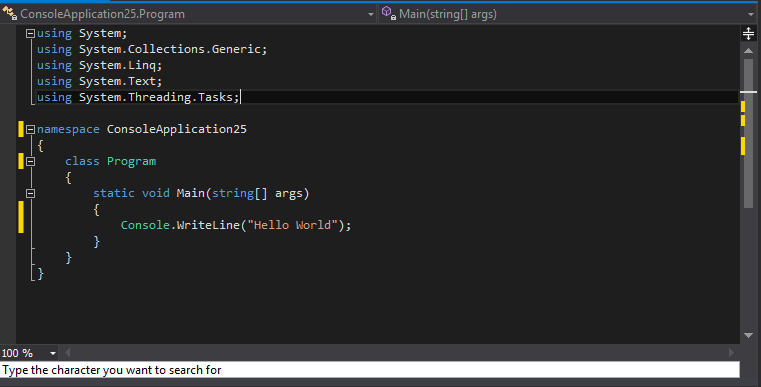
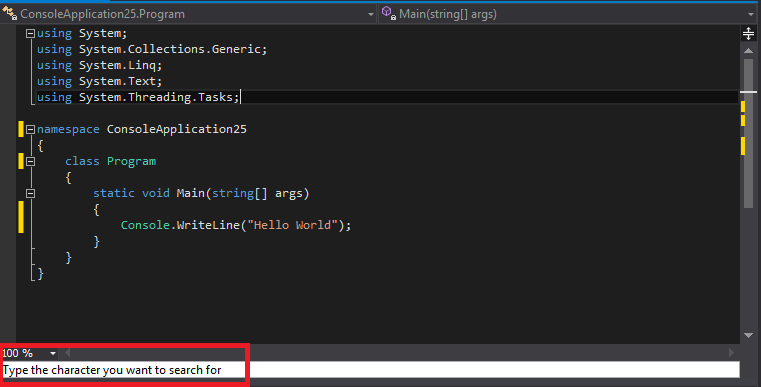
Added easy motion post

Changed region(s): [[0.0, 0.8682, 0.3325, 1.0]]

diff --git a/_posts/2014-09-23-introducing-easymotion.md b/_posts/2014-09-23-introducing-easymotion.md
@@ -1,0 +1,33 @@
+---
+layout: post
+title: Easy Motion for Visual Studio
+tags: vsix
+---
+Easy motion is a plugin for [Sublime](https://github.com/tednaleid/sublime-EasyMotion) that allows for quick and simple keyboard navigation within a file [^1].  Just 3 key strokes can take you to any visible letter.  No neeed for complex regexes or patterns, all you need to know is the letter that you want to navigate to. 
+
+A user alerted me to this sublime plugin a month or so ago and I immediately started using it.  I absolutely loath touching the mouse or arrow keys during development because I feel it slows me down.  Typically I use vim style editors to avoid the mouse.  But the steep learning curve of vim shouldn't be a prerequisite for efficient keyboard navigation.  Easy motion represents a great middle ground here for developers who want to get more productivite with a minimal learning curve.  
+
+So a few weekends ago I sat down and coded up an Easy Motion clone for Visual Studio.  Been toying with it for a few weeks now and it's ready to be shared out more generally.  
+
+- [Easy Motion Extension](http://visualstudiogallery.msdn.microsoft.com/86548753-2b00-42e0-a40c-185f93e37a4f)
+- [Source Code](https://github.com/jaredpar/EasyMotion)
+
+Here is a simple example of how to use EasyMotion to jump around within a file.  Let's start with a `"Hello World"` program that has the cursor positioned at the end of a using directive.  
+
+![example 1](/images/posts/easymotion1.png)
+
+Now I want to move the caret to the start of `Console.WriteLine`.  Instead of moving my hands to the arrow keys, or even worse grabbing the mouse, I initiate an easy motion search by pressing `Shift+Control+;`.  
+
+![example 2](/images/posts/easymotion2.png)
+
+In response the editor added a status line asking me for the character I want to search for.  I type `C` as it is the first letter in `Console.WriteLine`.  
+
+![example 3](/images/posts/easymotion3.png)
+
+There are many occurences of `C` in the file and Easy Motion distinguishes between them by overlaying every occurence with a new letter (a-z). To jump to a specific instance of 'C' I simply type in the letter which overlays the 'C' I want to jump to.  In this case it is 'I' 
+
+![example 4](/images/posts/easymotion4.png)
+
+Now the caret is positioned exactly where I wanted at the start of `Console.WriteLine`.  No arrow keys, no mouse, just 3 quick keyboard touches and I'm there 
+
+[^1]: The Sublime plugin is itself a clone of a [vim extension](https://github.com/Lokaltog/vim-easymotion)
